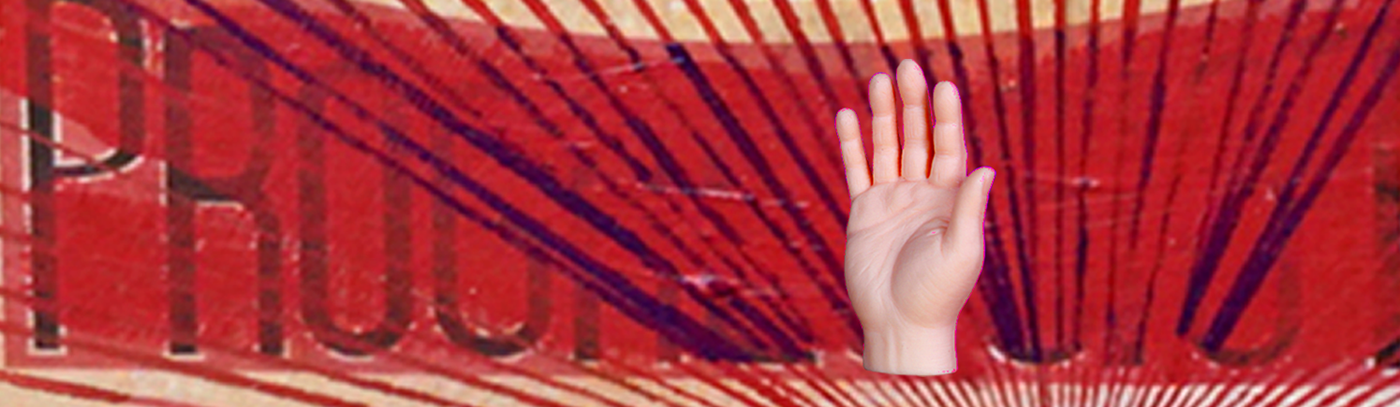
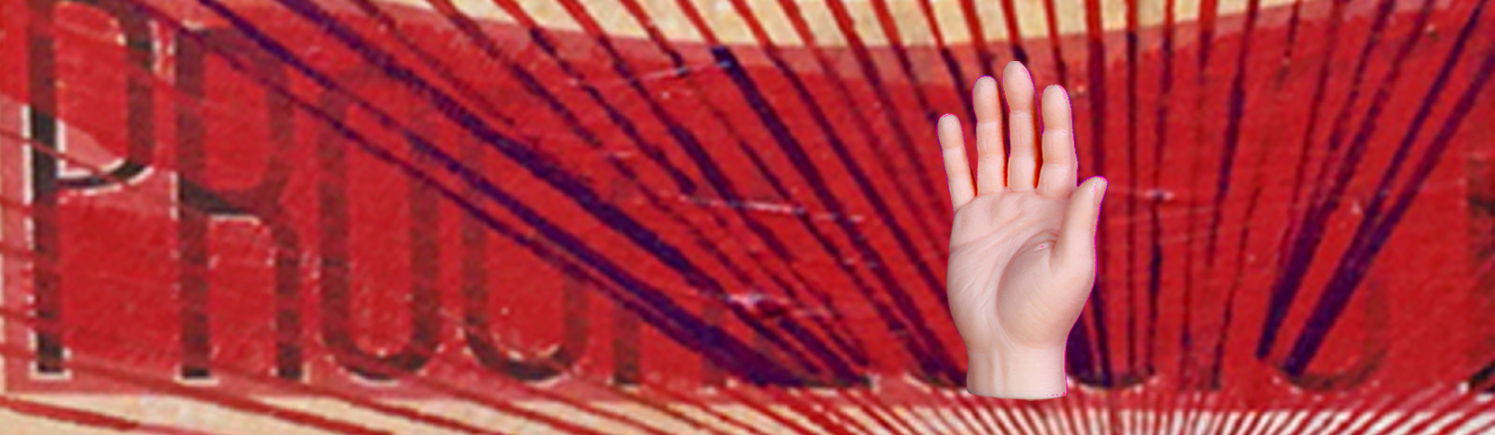
edits to hand image

Changed region(s): [[0.5836, 0.1474, 0.7679, 0.9435]]

diff --git a/index.html b/index.html
@@ -32,7 +32,7 @@
       <main>
         <section id="hero">
           <div class="full-width">
-            <img src="img/hand-with-rays.png" alt="image of toy hand" />
+            <img src="img/hand-with-rays-final.png" alt="image of toy hand" />
             <h1>let me <span class="red">code</span> something great <span>for you</span></h1>
           </div>
         </section>
